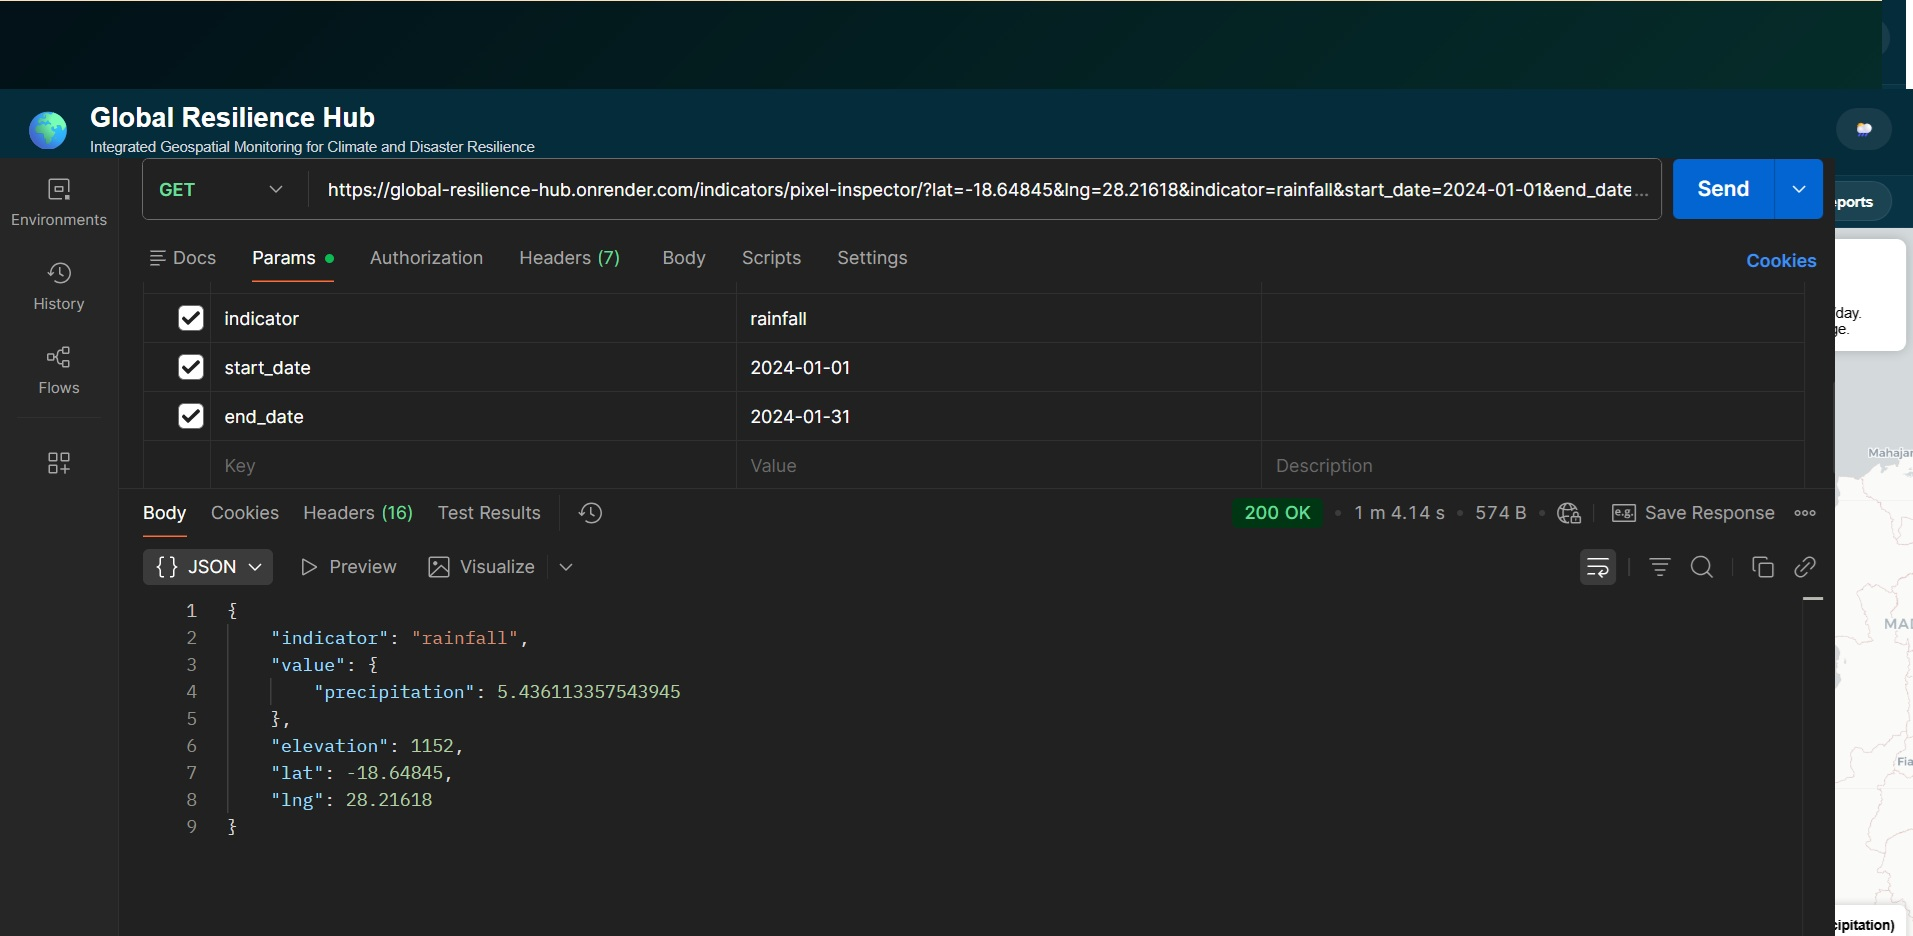
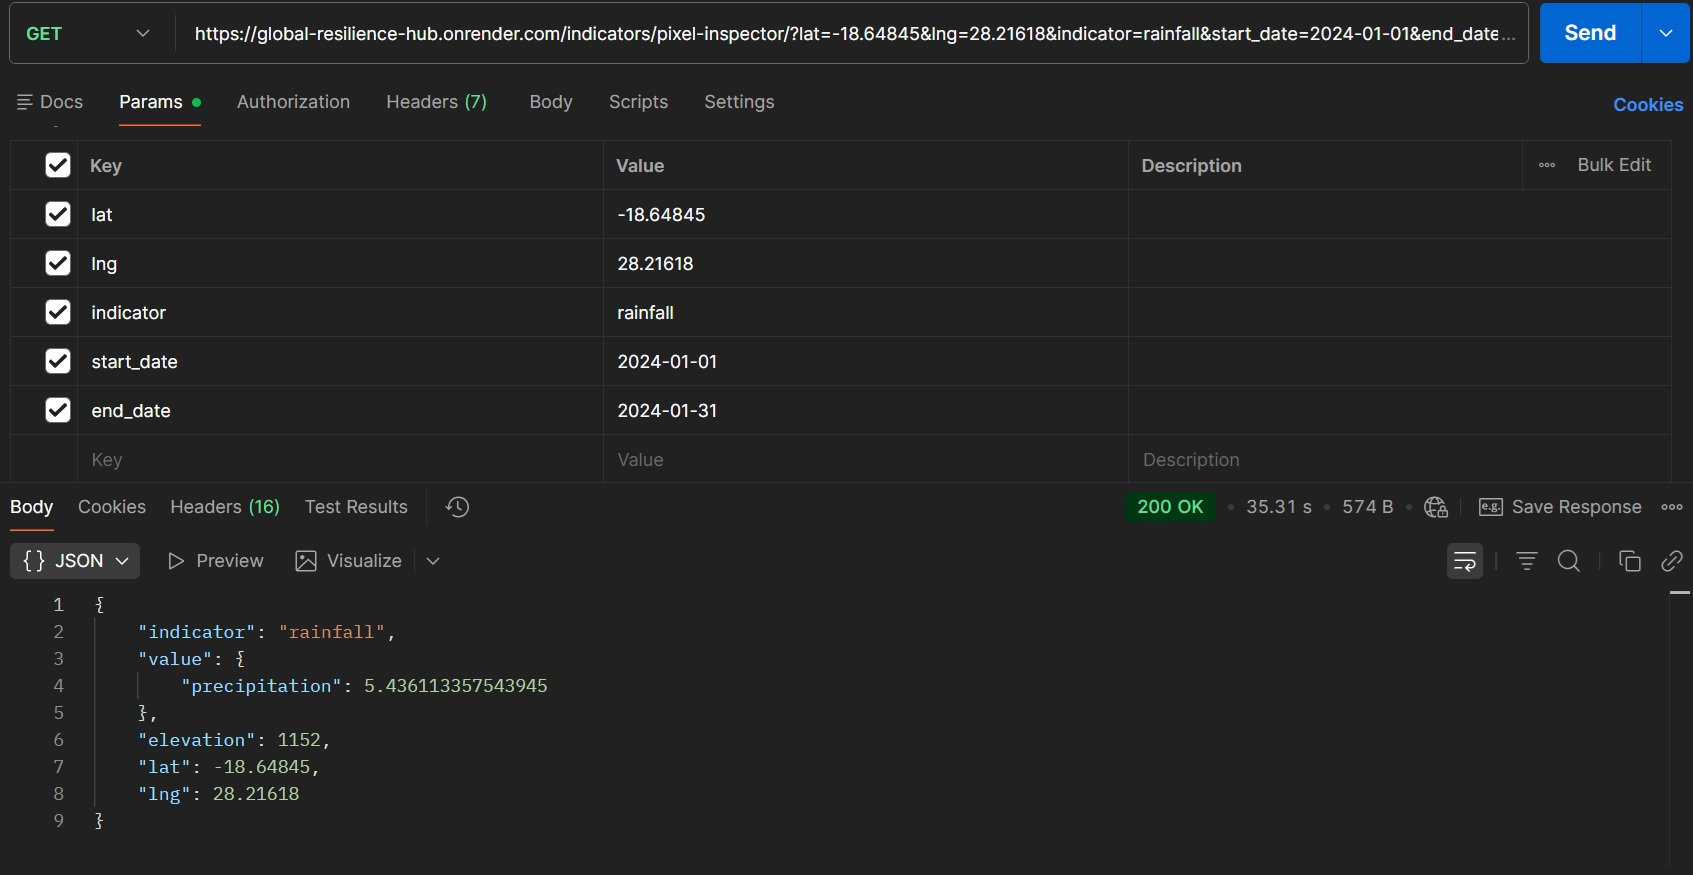
update on APi

diff --git a/index.html b/index.html
@@ -343,20 +343,20 @@
             <a href="images/portfolio_API1/API-download raster.jpg" data-lightbox="project_API1">
 
               <img src="images/portfolio_API1/API-download raster.jpg" class="img-fluid"
-                alt="Climate Raster Download API">
+                alt="Satellite Raster Download API">
 
             </a>
 
             <div class="text-center bg-white py-1 border-bottom">
               <small class="text-muted">
-                Climate Raster Download API
+                Satellite Raster Download API
               </small>
             </div>
 
             <div class="p-3">
 
               <h5 class="fw-bold">
-                Climate Raster Download API
+                Satellite Raster Download API
               </h5>
 
               <p class="small text-muted">
@@ -386,26 +386,25 @@
             <a href="images/portfolio_API2/API1-pixel-stats-Postman.jpg"
               style="width:100%; height:100%; object-fit:cover;" data-lightbox="project_API2">
 
-              <img src="images/portfolio_API2/API1-pixel-stats.jpg" class="img-fluid"
+              <img src="images/portfolio_API2/API1-pixel-stats-Postman.jpg" class="img-fluid"
                 alt="Satellite Pixel Inspector API">
 
             </a>
 
             <div class="text-center bg-white py-1 border-bottom">
               <small class="text-muted">
-                Satellite Pixel Inspector API
+                GeoPixel Analytics API
               </small>
             </div>
 
             <div class="p-3">
 
               <h5 class="fw-bold">
-                Satellite Pixel Inspector API
+                GeoPixel Analytics API
               </h5>
 
               <p class="small text-muted">
-                Coordinate-based API for extracting rainfall,
-                NDVI, and environmental indicator values from satellite rasters.
+                Satellite-derived climate, environmental, and disaster risk intelligence for any geographic location.
               </p>
 
               <a href="https://global-resilience-hub.onrender.com/indicators/pixel-inspector/?lat=-18.64845&lng=28.21618&indicator=rainfall&start_date=2024-01-01&end_date=2024-01-31"
@@ -576,7 +575,7 @@
         <div class="modal-header">
 
           <h5 class="fw-bold">
-            Climate Raster Download API
+            Satellite Data Download API
           </h5>
 
           <button class="btn-close" data-bs-dismiss="modal"></button>
@@ -587,8 +586,7 @@
 
           <p>
             Production-ready API for downloading
-            satellite-derived raster datasets from
-            Google Earth Engine.
+            satellite datasets.
           </p>
 
           <h6 class="fw-bold mt-3">
@@ -596,11 +594,11 @@
           </h6>
 
           <ul>
-            <li>CHIRPS rainfall export</li>
-            <li>MODIS NDVI integration</li>
-            <li>GeoTIFF output</li>
+            <li>Country-specific satellite data download </li>
+            <li>Temporal aggregated data by date ranges</li>
             <li>Country clipping</li>
             <li>Date filtering</li>
+            <li>GeoTIFF output</li>
           </ul>
 
         </div>
@@ -632,7 +630,7 @@
 
           <p>
             Real-time geospatial API for extracting
-            rainfall and NDVI values at user-defined coordinates.
+            satellite values at user-defined coordinates.
           </p>
 
           <h6 class="fw-bold mt-3">
@@ -641,7 +639,7 @@
 
           <ul>
             <li>Coordinate-based extraction</li>
-            <li>Rainfall & NDVI support</li>
+            <li>Multiple satellite data support</li>
             <li>JSON API responses</li>
             <li>Google Earth Engine integration</li>
             <li>Dashboard-ready outputs</li>

diff --git a/download-satellite-API.html b/download-satellite-API.html
@@ -1,0 +1,168 @@
+<!DOCTYPE html>
+<html lang="en">
+
+<head>
+  <meta charset="UTF-8" />
+  <meta name="viewport" content="width=device-width, initial-scale=1.0" />
+
+  <title>Satellite Data Center Hero</title>
+
+  <link href="https://cdn.jsdelivr.net/npm/bootstrap@5.3.3/dist/css/bootstrap.min.css" rel="stylesheet">
+
+  <style>
+    body {
+      margin: 0;
+      padding: 0;
+      background: #0b1220;
+      font-family: Arial, sans-serif;
+    }
+
+    /* 🌍 HERO AREA WITH SPACE CONTROL */
+    .hero {
+      position: relative;
+      height: 100vh;
+      width: 100%;
+      overflow: hidden;
+    }
+
+    /* IMAGE (LEAVES 30% RIGHT + 30% BOTTOM SPACE) */
+    .hero img {
+      position: absolute;
+      top: 0;
+      left: 0;
+
+      width: 70%;
+      /* 🔥 leaves 30% on right */
+      height: 70%;
+      /* 🔥 leaves 30% on bottom */
+
+      object-fit: cover;
+      filter: brightness(0.5);
+    }
+
+    /* RIGHT SIDE SOFT GLOW */
+    .glow {
+      position: absolute;
+      top: 0;
+      right: 0;
+      width: 30%;
+      height: 100%;
+      background: linear-gradient(to left, rgba(0, 255, 213, 0.18), transparent);
+    }
+
+    /* BOTTOM FADE SPACE */
+    .bottom-fade {
+      position: absolute;
+      bottom: 0;
+      left: 0;
+      width: 100%;
+      height: 30%;
+      background: linear-gradient(to top, #0b1220, transparent);
+    }
+
+    /* CONTENT */
+    .hero-content {
+      position: relative;
+      z-index: 2;
+      padding: 70px;
+      max-width: 600px;
+      color: white;
+    }
+
+    /* BADGE */
+    .badge-api {
+      display: inline-block;
+      background: rgba(0, 255, 200, 0.15);
+      border: 1px solid rgba(0, 255, 200, 0.4);
+      color: #00ffd5;
+      padding: 6px 12px;
+      border-radius: 30px;
+      font-size: 13px;
+      margin-bottom: 15px;
+    }
+
+    /* TITLE */
+    .hero-title {
+      font-size: 38px;
+      font-weight: bold;
+      line-height: 1.2;
+    }
+
+    /* DESC */
+    .hero-desc {
+      font-size: 16px;
+      opacity: 0.9;
+      margin-top: 15px;
+    }
+
+    /* BUTTON */
+    .hero-btn {
+      margin-top: 25px;
+      display: inline-block;
+      background: #00ffd5;
+      color: #000;
+      padding: 12px 18px;
+      border-radius: 10px;
+      font-weight: bold;
+      text-decoration: none;
+    }
+
+    .hero-btn:hover {
+      background: #00c7a8;
+    }
+
+    /* RESPONSIVE */
+    @media (max-width: 768px) {
+      .hero img {
+        width: 100%;
+        height: 60%;
+      }
+
+      .hero-content {
+        padding: 30px;
+      }
+
+      .hero-title {
+        font-size: 26px;
+      }
+    }
+  </style>
+</head>
+
+<body>
+
+  <div class="hero">
+
+    <!-- SATELLITE IMAGE -->
+    <img src="https://images.unsplash.com/photo-1446776811953-b23d57bd21aa?auto=format&fit=crop&w=2000&q=80"
+      alt="Satellite Earth Observation">
+
+    <!-- RIGHT SPACE EFFECT -->
+    <div class="glow"></div>
+
+    <!-- BOTTOM SPACE EFFECT -->
+    <div class="bottom-fade"></div>
+
+    <!-- CONTENT -->
+    <div class="hero-content">
+
+      <div class="badge-api">Satellite Raster API</div>
+
+      <div class="hero-title">
+        Satellite Data Download Center for Climate Resilience & DRR
+      </div>
+
+      <div class="hero-desc">
+        Download country-specific satellite data for climate resilience, environmental monitoring, and disaster risk
+        reduction, enabling hazard tracking, early warning, risk assessment, and informed decision-making
+      </div>
+
+      <a href="#" class="hero-btn">Download Data →</a>
+
+    </div>
+
+  </div>
+
+</body>
+
+</html>
